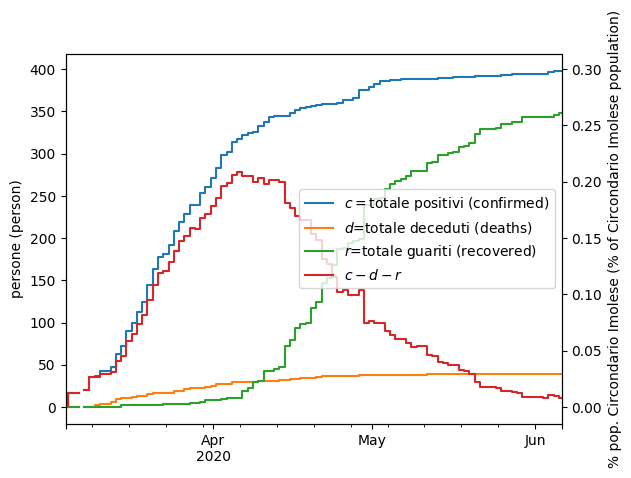
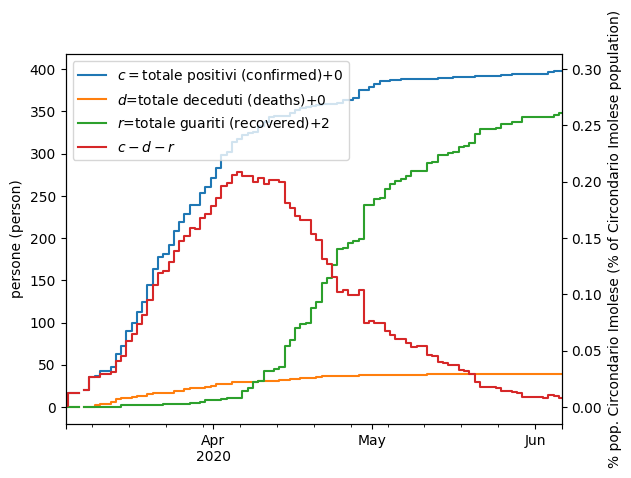
Add delta info

diff --git a/COVID-19/analysis.py b/COVID-19/analysis.py
@@ -71,7 +71,8 @@ df3.plot(drawstyle='steps-mid',ax=ax3)
 ax3.set_xlabel('')
 ax3.set_ylabel('persone (person)')
 # translation according to https://github.com/pomber/covid19
-ax3.legend(['$c=$totale positivi (confirmed)','$d$=totale deceduti (deaths)','$r$=totale guariti (recovered)','$c-d-r$'])
+
+ax3.legend(['$c=$totale positivi (confirmed){:+.0f}'.format(df3.diff().iloc[-1,0]),'$d$=totale deceduti (deaths){:+.0f}'.format(df3.diff().iloc[-1,1]),'$r$=totale guariti (recovered){:+.0f}'.format(df3.diff().iloc[-1,2]),'$c-d-r$'],loc='upper left')
 ax3_right.set_ylabel('% pop. Circondario Imolese (% of Circondario Imolese population)')
 ax3.figure.savefig('COVID-19-cumulative-formula.png',bbox_inches='tight')
 
